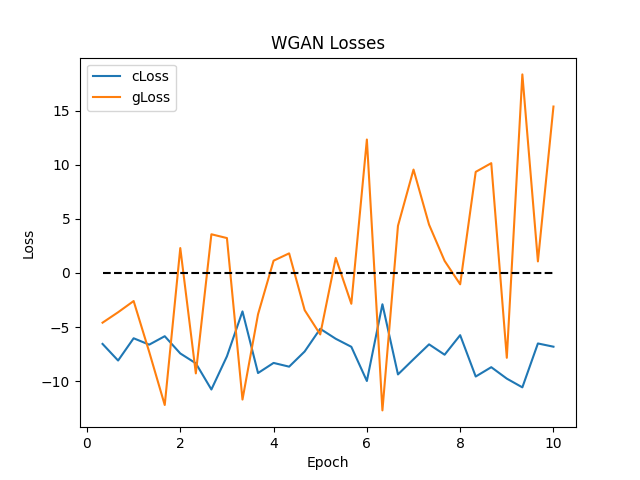
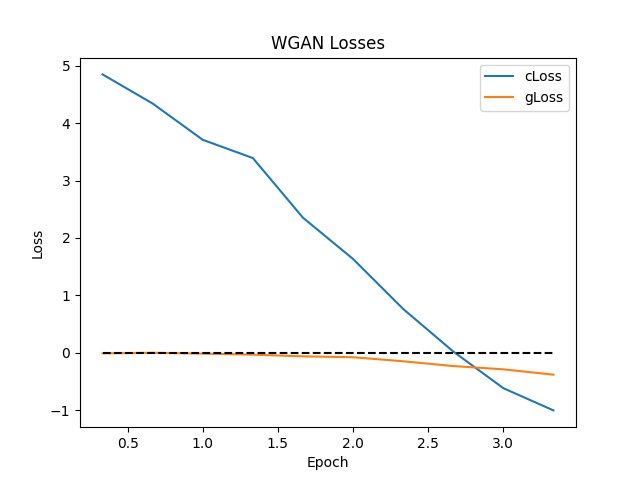
combined houses

diff --git a/src/networks/gans/stateFulGan.py b/src/networks/gans/stateFulGan.py
@@ -27,7 +27,7 @@ GENERATOR_TIME_STEPS = 16
 CRITIC_TIME_STEPS = 128
 NOISE_DIM = 128
 BATCH_SIZE = 32
-STEPS_PER_EPOCH = 1000
+STEPS_PER_EPOCH = 2 if gv.DEBUG else 200
 
 NEPOCHS = 2 if gv.DEBUG else 10
 NPREV_EPOCHS_DONE = 0
@@ -231,7 +231,16 @@ def run_gan(gan, epochs=NEPOCHS):
             for house in data[::-1]:
                 gan = train_on_house_individually(gan, house)
     else:
-        gan.fit(data[0].data.train, batch_size=BATCH_SIZE, shuffle=True, epochs=NEPOCHS)
+        trainData = data[0].data.train
+        np.random.shuffle(trainData)
+        def data_gen():
+            while True:
+                idx = np.random.randint(0, trainData.shape[0], BATCH_SIZE)
+                yield trainData[idx]
+
+        dataGen = data_gen()
+
+        gan.fit(dataGen, batch_size=BATCH_SIZE, shuffle=False, epochs=NEPOCHS, steps_per_epoch=STEPS_PER_EPOCH)
         gan.reset_states()
 
     if not gv.DEBUG:

diff --git a/src/utils/globalVars.py b/src/utils/globalVars.py
@@ -5,4 +5,4 @@ def get_debug_flag():
 
 DEBUG = get_debug_flag()
 
-DATA_AMT = int(2**14) if DEBUG else None
+DATA_AMT = None #int(2**14) if DEBUG else None
